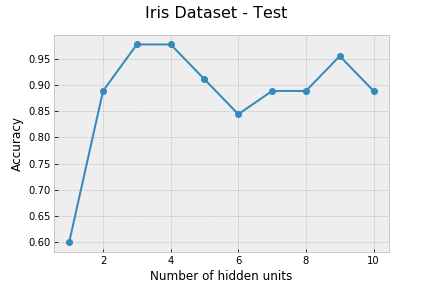
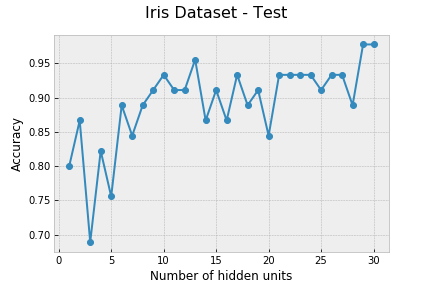
updated results

diff --git a/source/main_iris.py b/source/main_iris.py
@@ -29,7 +29,7 @@ def log_likelihood(W, *logl_args):
 
 #Store results
 results_list = [] # to store result of nested sampling
-x_axis = range(1,31,1) # Number of hidden units
+x_axis = range(1,101,1) # Number of hidden units
 # Architecture for mlp
 input_neurons = x_train.shape[1] # inputs
 output_neurons = 3

diff --git a/source/main_boston.py b/source/main_boston.py
@@ -27,7 +27,7 @@ def log_likelihood(W, *logl_args):
 
 #Store results
 results_list = [] # to store result of nested sampling
-x_axis = range(1,11,1) # Number of hidden units
+x_axis = range(1,31,1) # Number of hidden units
 # Architecture for mlp
 input_neurons = x_train.shape[1] # inputs
 output_neurons = 1
